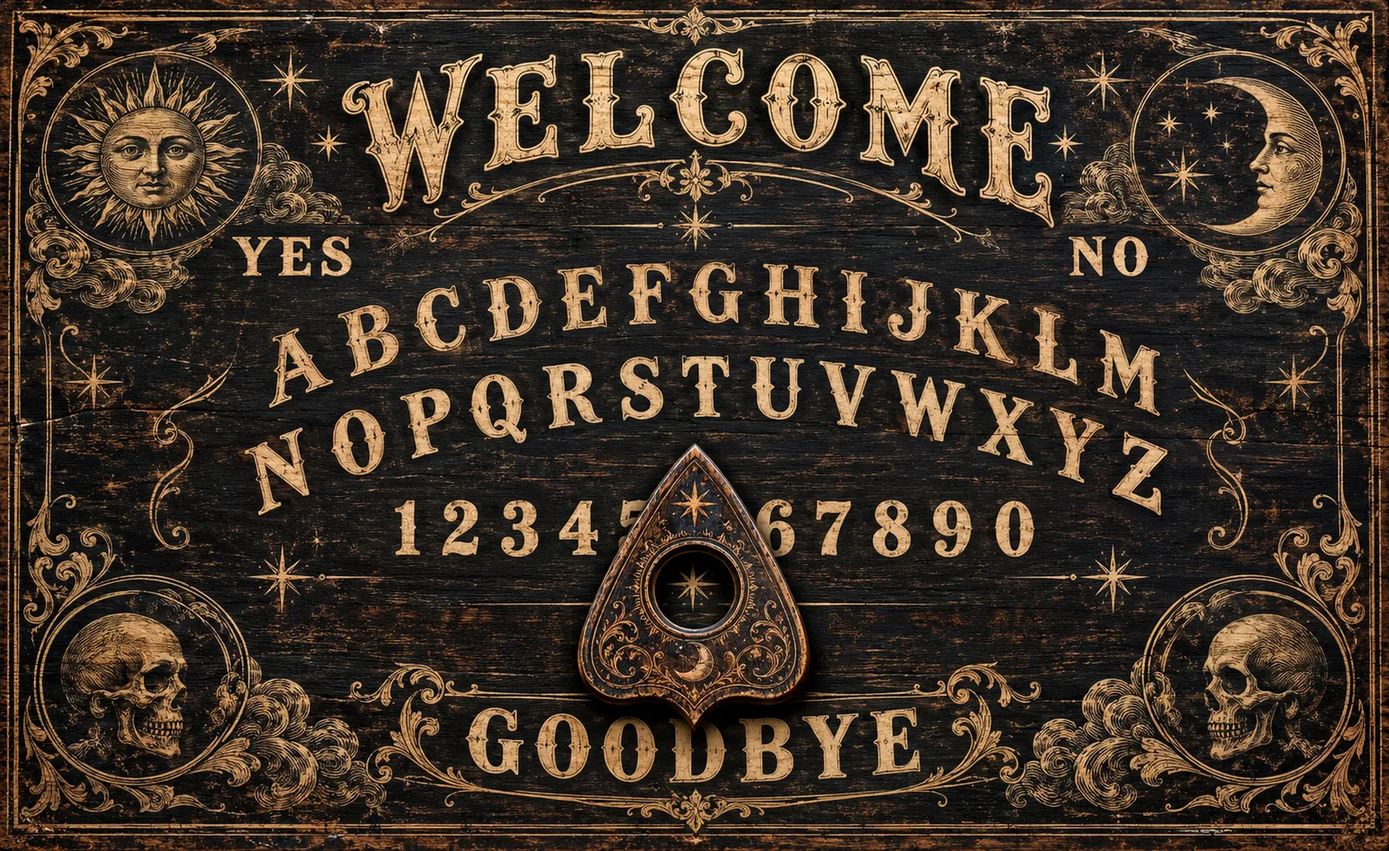
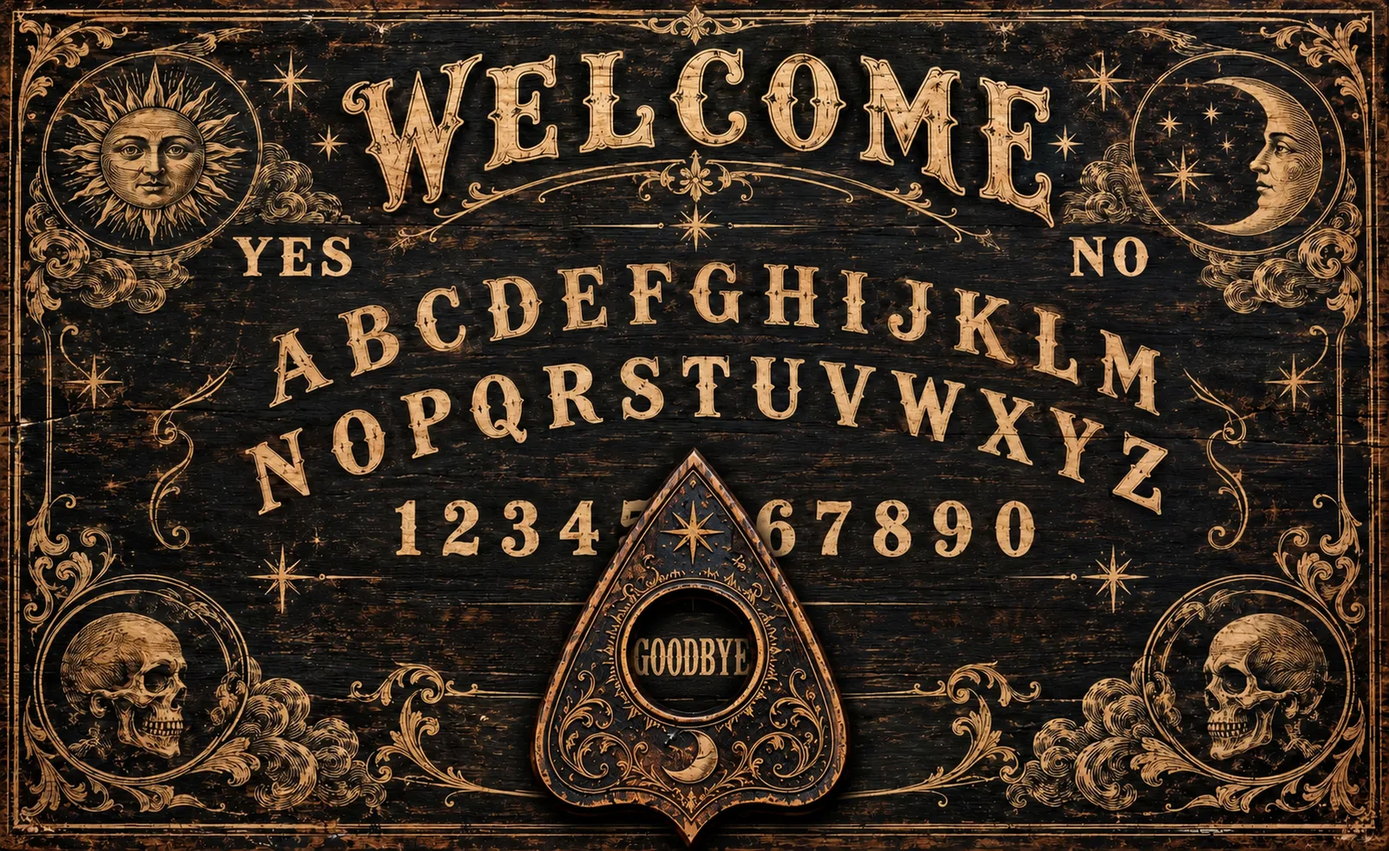
Ouija mat: the planchette on GOODBYE, the word in its window
Bud's repaint, at Alyx's ask: the old planchette sat over the numbers and
it was hard to tell what the board was saying. Named "The Ouija Says
Goodbye" (Alyx: name it whatever). verify-surprise-sets and
verify-occasion-page pass.

Claude-Session: https://claude.ai/code/session_01VPDKP5EJZDEyqUkUM3kqQb

diff --git a/needles-studio.html b/needles-studio.html
@@ -1,5 +1,5 @@
 <!-- ============================================================
-     VERSION: V446
+     VERSION: V447
      ============================================================
      THE ONE LINE THAT SAYS WHICH BUILD YOU ARE LOOKING AT.
 
@@ -4938,7 +4938,7 @@ function toggleWorkingImage(){
 // Two copies of a number is exactly how the marker rotted in the first place,
 // so they are not trusted to agree: .githooks/pre-commit moves both together
 // and REFUSES the commit if it ever finds them apart.
-const APP_VERSION='V446';
+const APP_VERSION='V447';
 try{ console.log('%cNeedles\u2019 Studio '+APP_VERSION,'color:#29a3ff;font-weight:700'); }catch(e){}
 
 function getDeviceId(){
@@ -13422,7 +13422,7 @@ const PREMADE_CATEGORIES={
       // product at all on a flyer ... move objects depicted on said flyers to
       // positions of prominence"): the Halloween flyer's four mats, in its order.
       {key:'halloween-silhouettes',label:'Witch Silhouette',occasion:'halloween'},{key:'vampires-welcome',label:'Consider Yourself Inbited',occasion:'halloween'},{key:'treat-or-trick',label:'Treat or Trick',occasion:'halloween'},{key:'six-feet-under',label:'Six Feet Under',occasion:'halloween'},
-      {key:'care-for-a-bite',label:'Care for a Bite?',occasion:'halloween'},{key:'my-parlor',label:'Welcome to My Parlor',occasion:'halloween'},{key:'ouija',label:'Ouija',occasion:'halloween'},{key:'witch-parking',label:'Witch Parking Only',occasion:'halloween'},{key:'dying-to-meet-you',label:'We\'re Dying to Meet You',occasion:'halloween'},{key:'beware-of-ghost',label:'Beware of Ghost',occasion:'halloween'},{key:'go-away',label:'Go Away',occasion:'halloween'},{key:'no-soliciting',label:'No Soliciting',occasion:'halloween'},{key:'no-body-here',label:'No Body Here',occasion:'halloween'},{key:'rising-skeleton',label:'Rising Skeleton',occasion:'halloween'},{key:'under-the-boards',label:'Under the Boards',occasion:'halloween'},{key:'witch-puddle',label:'Witch Puddle',occasion:'halloween'},{key:'three-black-cats',label:'Three Black Cats',occasion:'halloween'},{key:'skeleton-gate',label:'Skeleton Gate',occasion:'halloween'},{key:'pumpkin-cats',label:'Pumpkin Cats',occasion:'halloween'},{key:'ghost-letters',label:'Ghost Letters',occasion:'halloween'},{key:'zombie-sign',label:'Zombie Sign',occasion:'halloween'},{key:'spider-web',label:'Spider Web',occasion:'halloween'},{key:'bat-sign',label:'Bat Sign',occasion:'halloween'},{key:'coffin-sign',label:'Coffin Sign',occasion:'halloween'}
+      {key:'care-for-a-bite',label:'Care for a Bite?',occasion:'halloween'},{key:'my-parlor',label:'Welcome to My Parlor',occasion:'halloween'},{key:'ouija',label:'The Ouija Says Goodbye',occasion:'halloween'},{key:'witch-parking',label:'Witch Parking Only',occasion:'halloween'},{key:'dying-to-meet-you',label:'We\'re Dying to Meet You',occasion:'halloween'},{key:'beware-of-ghost',label:'Beware of Ghost',occasion:'halloween'},{key:'go-away',label:'Go Away',occasion:'halloween'},{key:'no-soliciting',label:'No Soliciting',occasion:'halloween'},{key:'no-body-here',label:'No Body Here',occasion:'halloween'},{key:'rising-skeleton',label:'Rising Skeleton',occasion:'halloween'},{key:'under-the-boards',label:'Under the Boards',occasion:'halloween'},{key:'witch-puddle',label:'Witch Puddle',occasion:'halloween'},{key:'three-black-cats',label:'Three Black Cats',occasion:'halloween'},{key:'skeleton-gate',label:'Skeleton Gate',occasion:'halloween'},{key:'pumpkin-cats',label:'Pumpkin Cats',occasion:'halloween'},{key:'ghost-letters',label:'Ghost Letters',occasion:'halloween'},{key:'zombie-sign',label:'Zombie Sign',occasion:'halloween'},{key:'spider-web',label:'Spider Web',occasion:'halloween'},{key:'bat-sign',label:'Bat Sign',occasion:'halloween'},{key:'coffin-sign',label:'Coffin Sign',occasion:'halloween'}
     ]},
   // Placemats: Bud's designs at the neoprene mat's print shape, 5610 x 3839
   // (Alyx and Bud, 27 Sep: singly, or a set of two priced as one item).

diff --git a/occasions/halloween.js b/occasions/halloween.js
@@ -49,7 +49,7 @@ window.OCCASION = {
       { key: "six-feet-under", label: "Six Feet Under" },
       { key: "care-for-a-bite", label: "Care for a Bite?" },
       { key: "my-parlor", label: "Welcome to My Parlor" },
-      { key: "ouija", label: "Ouija" },
+      { key: "ouija", label: "The Ouija Says Goodbye" },
       { key: "witch-parking", label: "Witch Parking Only" },
       { key: "dying-to-meet-you", label: "We're Dying to Meet You" },
       { key: "beware-of-ghost", label: "Beware of Ghost" },
